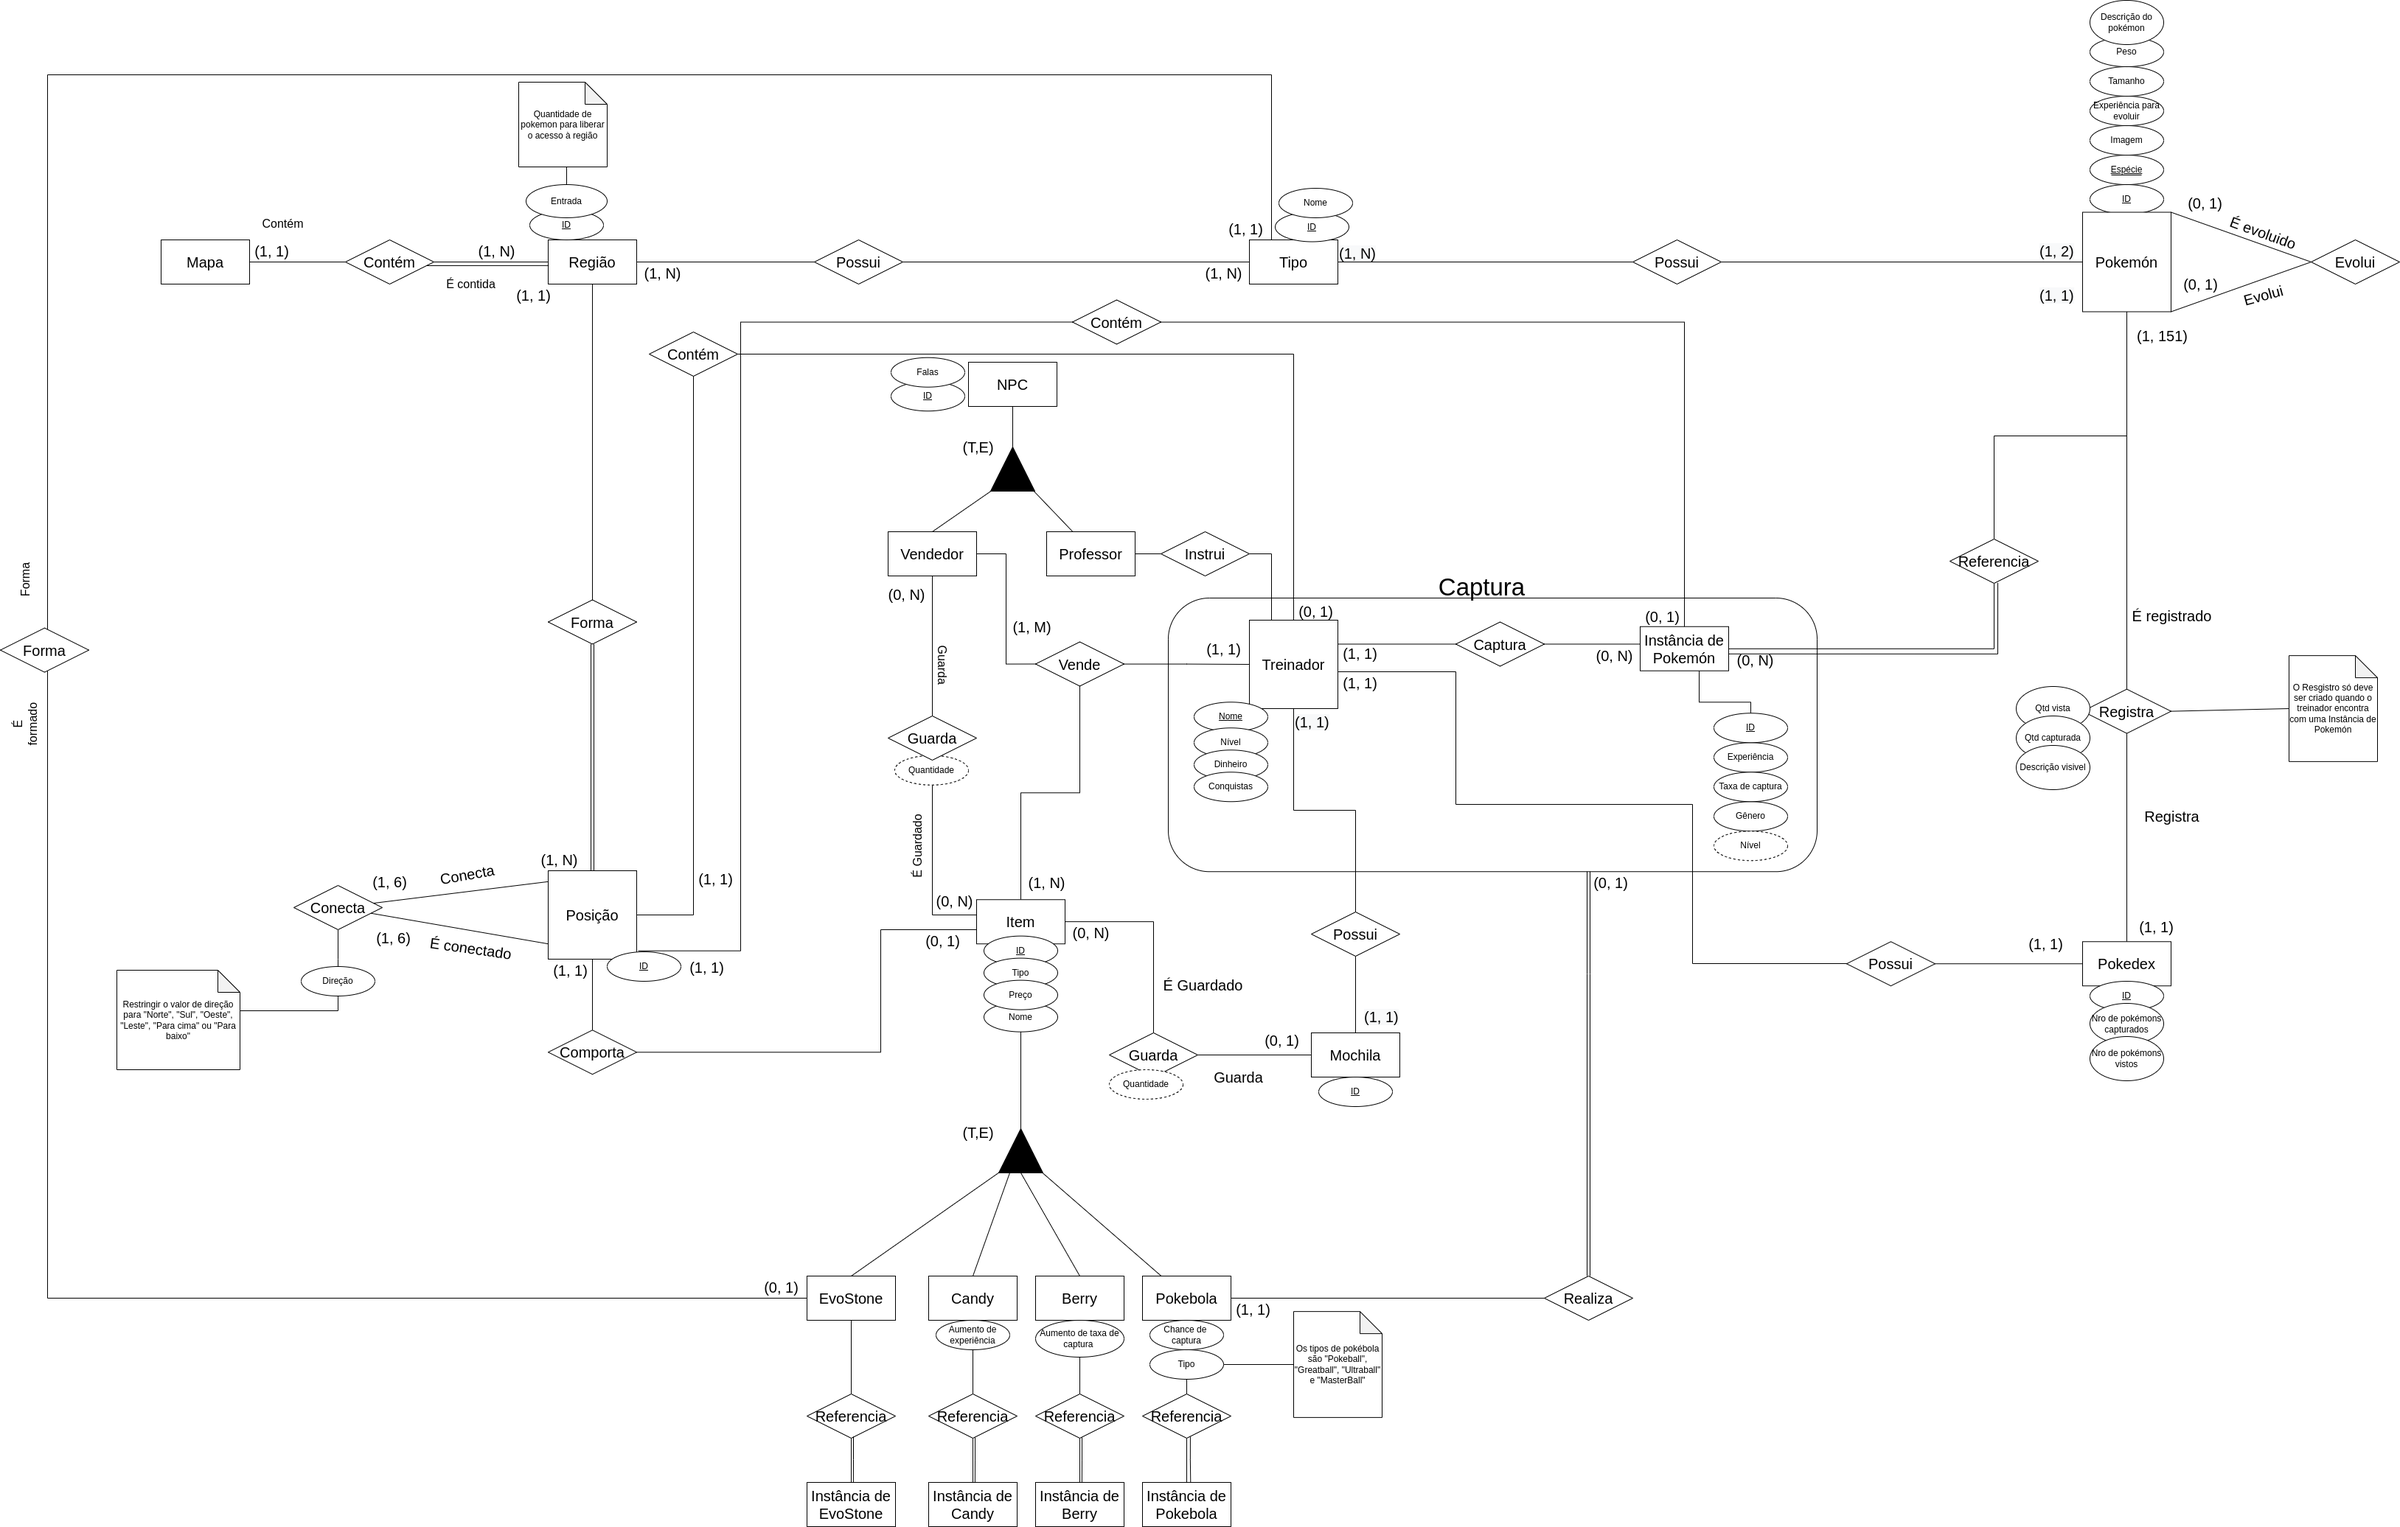
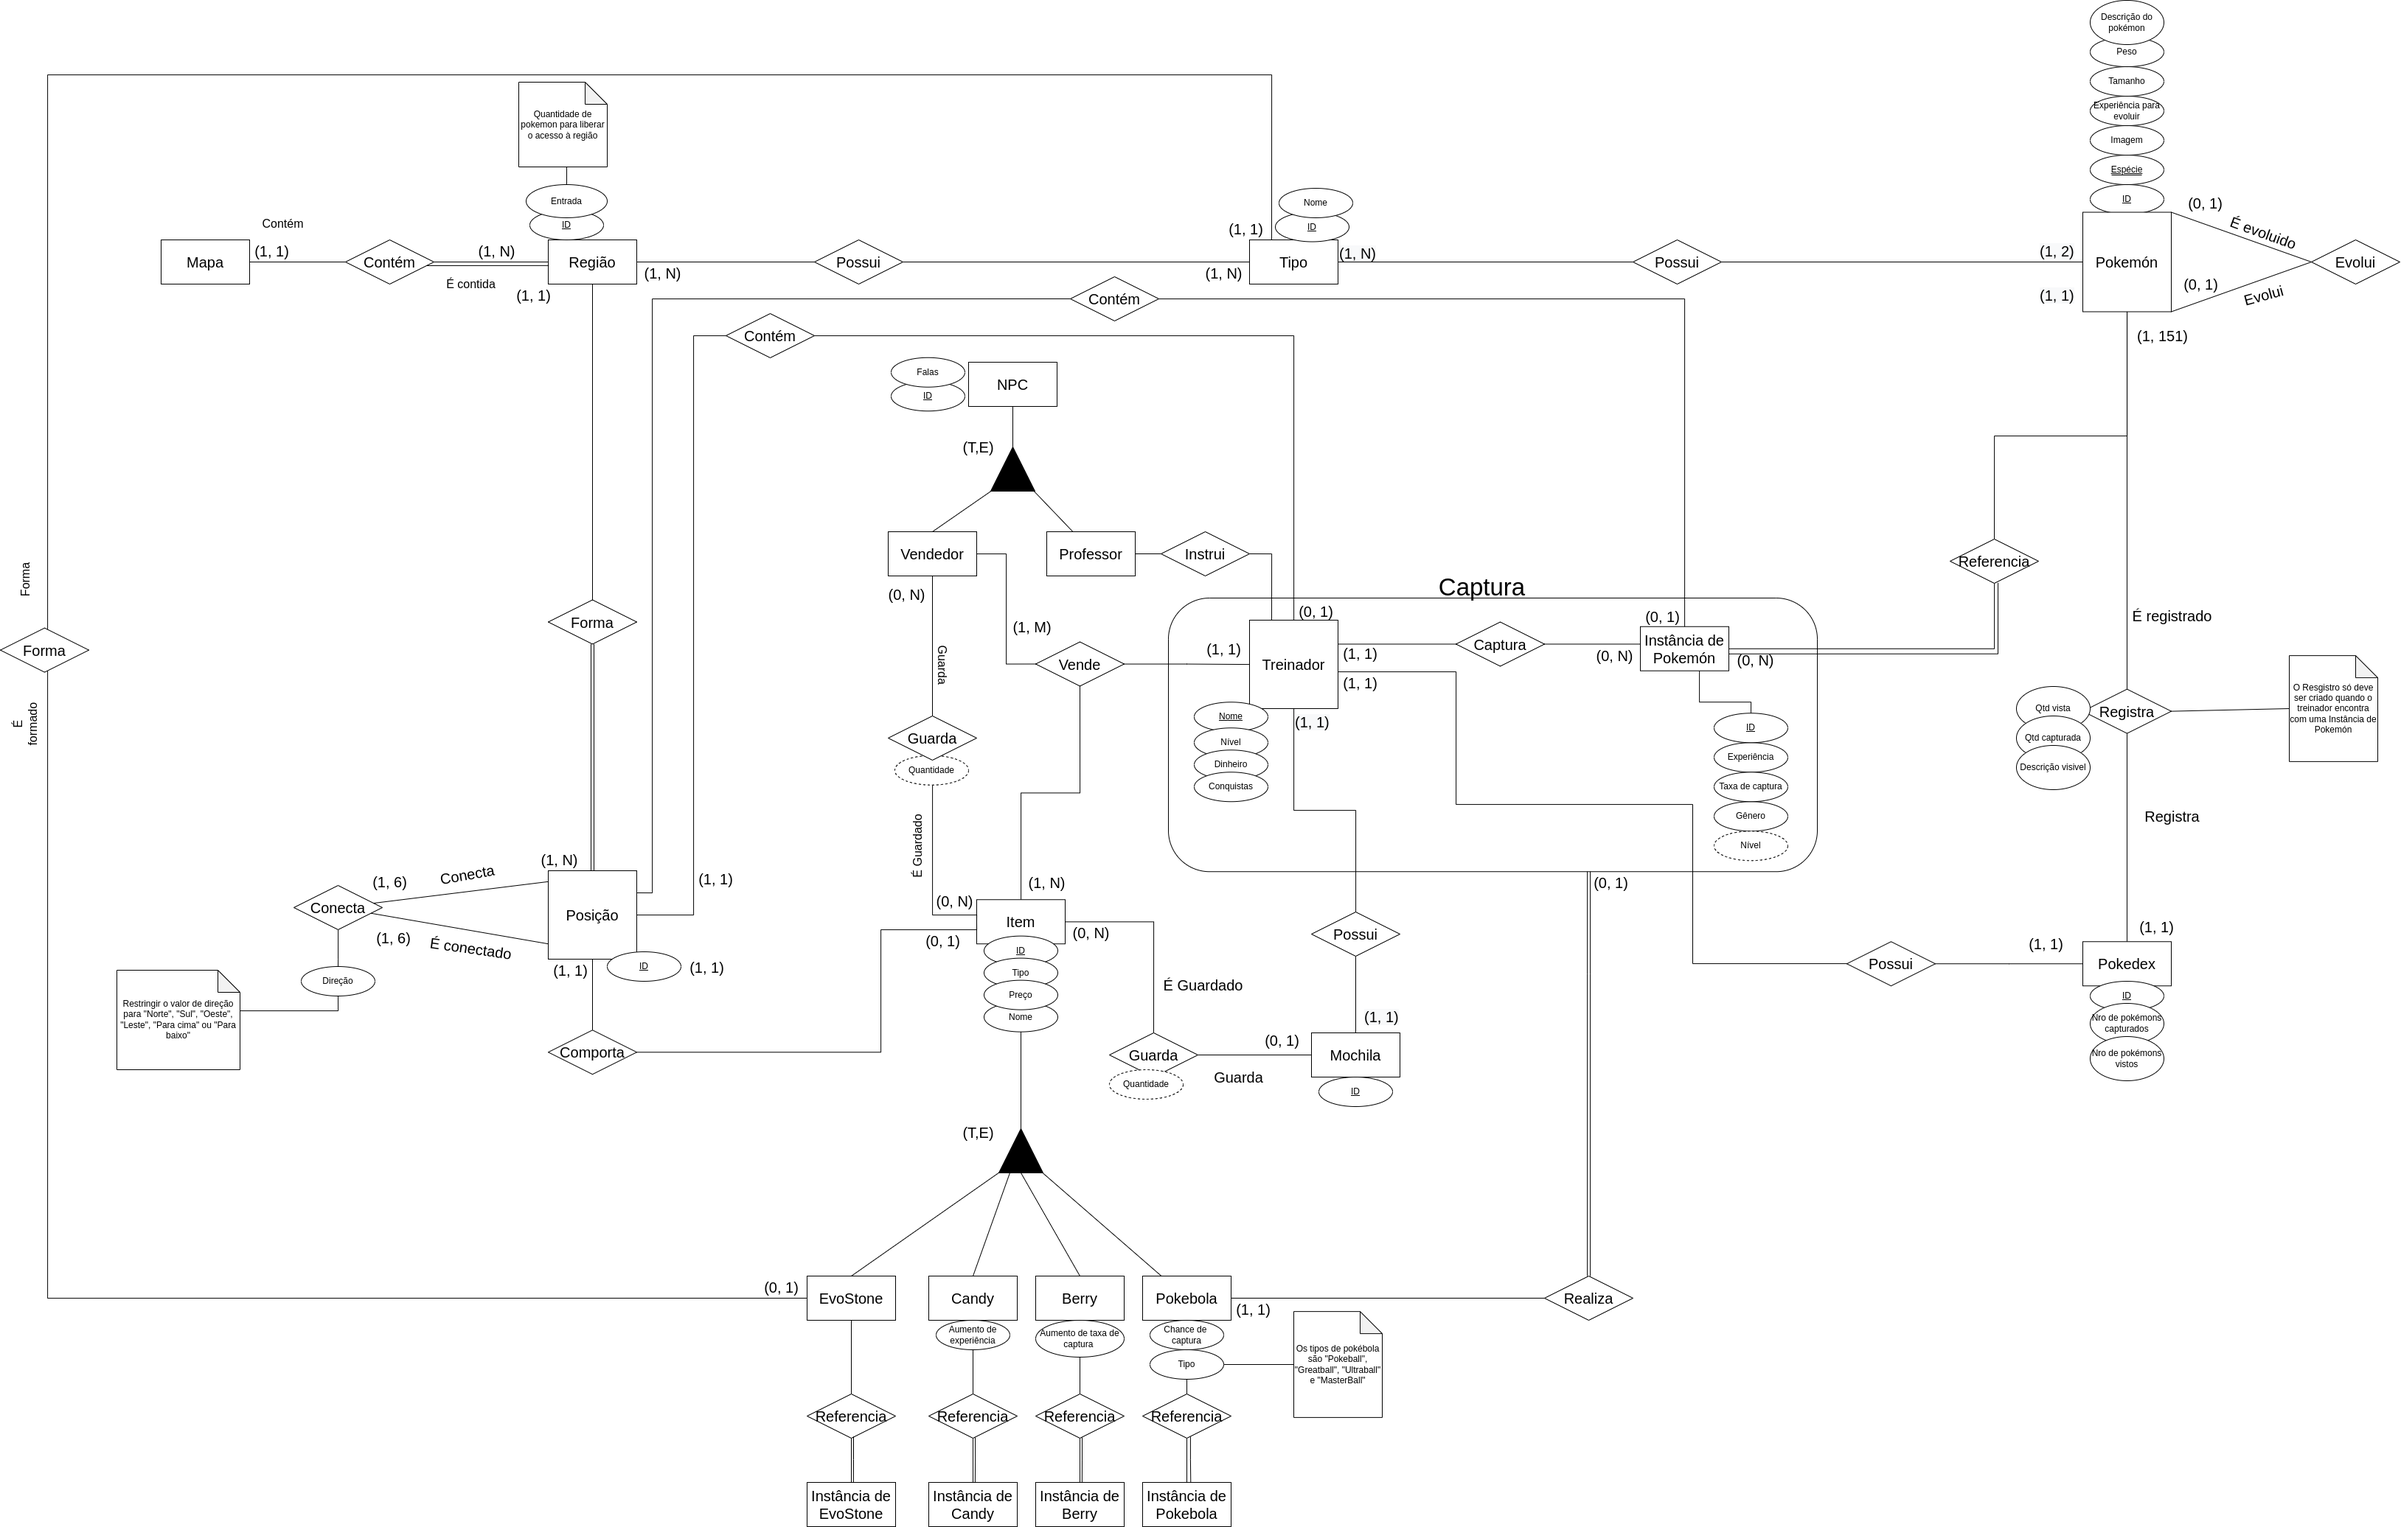
#1 - Add new entities in dictonary, update der image, fix date in mer

diff --git a/docs/MER/DictonaryMER.md b/docs/MER/DictonaryMER.md
@@ -3,6 +3,8 @@
 |    Data    | Versão | Descrição | Autor |
 | :---: | :---: | :---: | :---: |
 | 05/02/2022 | 0.1 | Criação do documento | [João Guedes](https://github.com/sudjoao), [Lucas Medeiros](https://github.com/medeiroslucas) |
+| 05/02/2022 | 0.2 | Adição das entidades Berry, Candy, Pokebola, Vendedor, Mapa, Região, Posição e  Tipo | [Lucas Medeiros](https://github.com/medeiroslucas) |
+| 05/02/2022 | 0.3 | Adição das entidades Pokémon, Pokédex, Treinador, Mochila, Item, EvoStone, NPC e Professor | [João Guedes](https://github.com/sudjoao) |
 
 
 <!-- Explicar o que é o MER -->
@@ -16,10 +18,18 @@ Durante uma das lives, o professor Maurício comentou que seria interessante a e
 ## Entidades
 | Nome | Descrição  | Observação    |
 | ---- | -------    | ---------     |
+| Pokémon | São criaturas ficticias que possuem poderes, normalmente são separados por **tipos**, possuem ataques e podem evoluir para uma forma mais forte. |  Dentro do nosso contexto existirão apenas 151 pokémons    |
+| Pokédex | Dispostivo utilizado para registrar dados sobre as espécies de **Pokémon**. |  Para conseguir visualizar todas as informações sobre um pokémon é necessário capturá-lo  |
+| Treinador | Pessoa que captura e treina **Pokémons** |   |
+| Mochila | Lugar onde os **Items** são guardados |   |
+| Item | Objeto que pode ser utilizado para uma finalidade específica | |
 | Candy | **Item** que concede aumento no valor de experiência de um **Pokemon** | |
 | Berry | **Item** que concede aumento na taxa de sucesso no momento da captura de um **Pokemon** | |
 | Pokebola | **Item** utilizado para capturar um **Pokemon** | Podem existir vários tipos de **Pokebola** |
+| EvoStone | **Item** utilizado para evoluir certos **Pokémons** para o mesmo **Tipo** da pedra  | |
+| NPC | Pessoa dentro do sistema que possui falas/ações pré-definidas |   |
 | Vendedor | **NPC** responsável pela venda de **Itens** | |
+| Professor | **NPC** responsável por dar instruções ao **Treinador**| |
 | Posição | Unidade mínima de localização no jogo | Pode ser uma posição vazia ou conter instâncias como **Jogador**, **Pokemon**, **Item**, etc. |
 | Região | Unidade de localização formada pela junção de **Posições** | Pertence a um tipo específico |
 | Mapa | Unidade máxima de localização, formada pela junção de **Regiões** | |

diff --git a/docs/MER/MER.md b/docs/MER/MER.md
@@ -7,7 +7,7 @@
 | 31/01/2022 | 0.3 | Adição DER 0.4 | [Iuri Severo](https://github.com/iurisevero)|
 | 31/01/2022 | 0.4 | Adição DER 0.5 | [Iuri Severo](https://github.com/iurisevero), [Arthur Matos](https://github.com/Arthur-Gaudium)|
 | 04/02/2022 | 0.5 | Adição DER 0.6 | [Victor Buendia](https://github.com/Victor-Buendia)|
-| 04/02/2022 | 0.6 | Adição DER 0.7 | [João Guedes](https://github.com/sudjoao) e [Lucas Medeiros](https://github.com/medeiroslucas)|
+| 05/02/2022 | 0.6 | Adição DER 0.7 | [João Guedes](https://github.com/sudjoao) e [Lucas Medeiros](https://github.com/medeiroslucas)|
 
 
 <!-- Explicar o que é o MER -->
